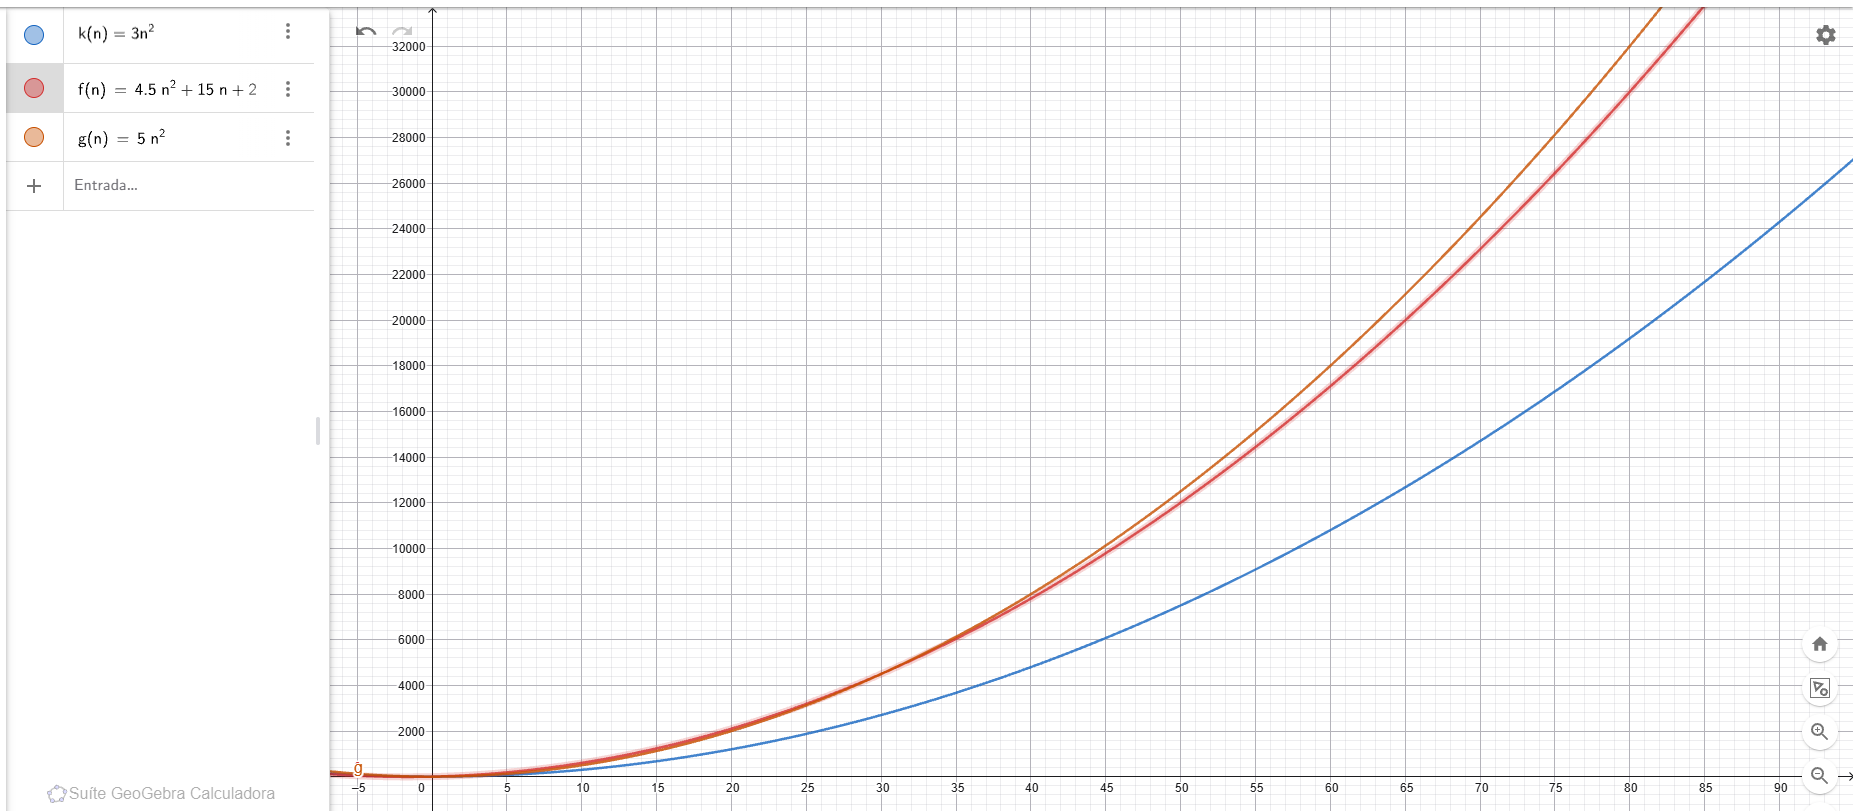
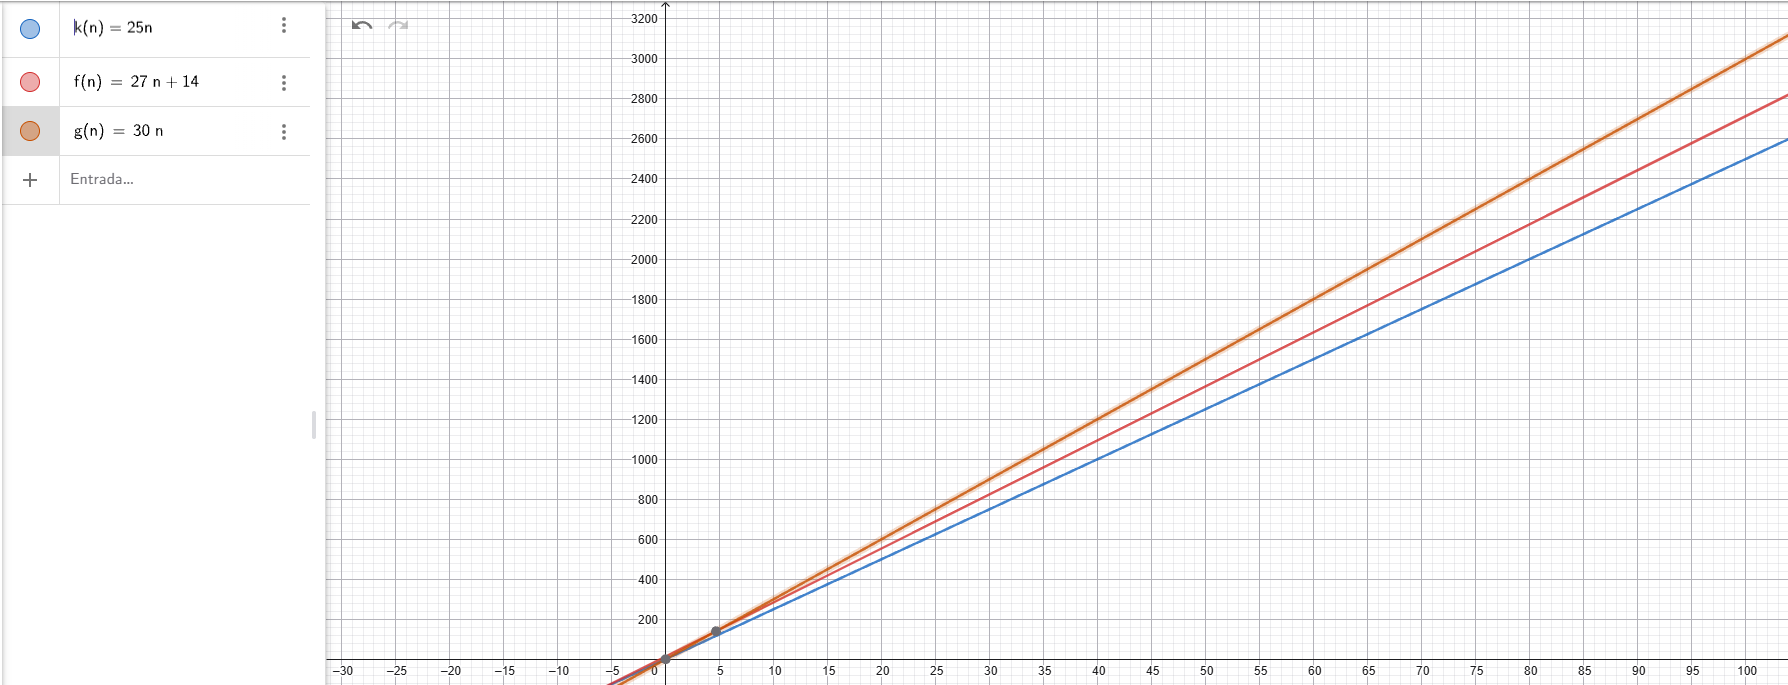
elaborar relatorio do readme

Changed region(s): [[0.0, 0.0, 1.0, 1.0]]

diff --git a/README.md b/README.md
@@ -52,3 +52,41 @@ Tabela Padrão
 | 6 | 30.000 |
 | 7 | 50.000 |
 | 8 | 10.000.000 |
+
+## Relatório
+
+### Comparação dos resultados
+
+Os tempos apresentados correspondem à **mediana de cinco execuções** por versão.
+
+| Versão | n = q | Mediana (s) | Comparação com a v0 |
+|:---:|---:|---:|---|
+| v0 | 10.433 | 8,785270 | Referência |
+| v1 | 10.433 | 7,708809 | 12,25% menos tempo |
+| v2 | 10.433 | 6,172683 | 29,74% menos tempo |
+| v3 | 10.433 | 5,909541 | 32,73% menos tempo |
+| v4 (linear) | 10.000.000 | 2,265766 | Não comparável diretamente: entrada diferente |
+| v5 (linear) | 10.000.000 | 1,971931 | Não comparável diretamente: entrada diferente |
+| v6 | 10.000.000 | 1,557391 | Não comparável diretamente: entrada diferente |
+
+Nos testes com `n = q = 10.433`, as versões v0, v1, v2 e v3 produziram a mesma soma registrada: **15.301**. No cenário 8, com `n = q = 10.000.000`, as versões lineares v4, v5 e v6 também coincidiram, retornando **-269.416**.
+
+**Justificativa dos cenários:** as versões v4, v5 e v6 foram avaliadas no cenário 8 porque, para valores menores de `n`, seus tempos muito curtos dificultam distinguir os ganhos com precisão. Em contrapartida, a v0 torna-se muito lenta em entradas grandes devido à sua complexidade quadrática. Por isso, foram usados tamanhos diferentes para manter os experimentos viáveis. Essa escolha impede calcular diretamente o ganho de tempo da v6 em relação à v0 a partir das medições apresentadas.
+
+### Refatorações que mais renderam
+
+Entre v0 e v3, as melhorias eliminaram verificações e acessos desnecessários, mas mantiveram a complexidade **Θ(n²)**, considerando `n = q`. A v1 reduziu o tempo em **12,25%**, a v2 em **29,74%** e a v3 em **32,73%**, sempre em relação à v0. A passagem de v1 para v2 foi particularmente relevante, pois reduziu o tempo em **19,93%**.
+
+A principal melhoria **algorítmica** ocorreu na v4 linear, com a introdução das **somas prefixadas**. Essa estratégia substituiu o processamento repetido de cada intervalo por um pré-processamento do vetor e consultas de custo constante, reduzindo a complexidade total de **Θ(n²)** para **Θ(n)** quando `n = q` (ou, mais geralmente, de Θ(n·q) para Θ(n + q)).
+
+Nas versões lineares, as refatorações seguintes removeram vetores e laços auxiliares. No cenário 8, a v5 reduziu o tempo em **12,97%** em relação à v4, enquanto a v6 foi **31,26%** mais rápida que a v4 e **21,02%** mais rápida que a v5, considerando a redução percentual do tempo de execução.
+
+### Diferenças entre teoria e medição
+
+A análise das operações primitivas prevê uma redução do trabalho a cada refatoração. As medições acompanharam essa tendência dentro de cada grupo testado com o mesmo `n`, mas **a redução percentual de primitivas não precisa coincidir com a redução percentual de tempo**. O desempenho real também depende do interpretador Python, do acesso à memória, do cache e da carga do sistema durante a execução.
+
+Além disso, como as versões v0–v3 e v4–v6 foram medidas com entradas de tamanhos diferentes, **não é possível comparar diretamente seus tempos absolutos** nem afirmar um fator de aceleração medido da v6 sobre a v0. Para obter esse fator, seria necessário executar ambas com um mesmo tamanho de entrada viável e dividir a mediana da v0 pela mediana da v6.
+
+### Conclusão
+
+Os testes mostram melhorias progressivas: entre as versões quadráticas, a v3 apresentou o menor tempo, com **32,73% de redução em relação à v0**; entre as versões lineares, a v6 foi a mais rápida, com **31,26% de redução em relação à v4 linear**. A maior mudança teórica ocorreu na v4 linear, que reduziu a ordem de crescimento do algoritmo de **Θ(n²) para Θ(n)**, mantendo `n = q`. Os resultados ilustram tanto o benefício de eliminar operações desnecessárias quanto a vantagem de adotar uma estratégia algorítmica mais eficiente.

diff --git a/docs/tabelas/tabela_v4.md b/docs/tabelas/tabela_v4.md
@@ -1,10 +1,10 @@
-|       n |             3n² | 4,5n² + 15n + 2 |             5n² |
-| ------: | --------------: | ---------------: | --------------: |
-|   1.000 |      3.000.000 |        4.515.002 |      5.000.000 |
-|   2.000 |     12.000.000 |       18.030.002 |     20.000.000 |
-|   5.000 |     75.000.000 |      112.575.002 |    125.000.000 |
-|  10.000 |    300.000.000 |      450.150.002 |    500.000.000 |
-|  20.000 |  1.200.000.000 |    1.800.300.002 |  2.000.000.000 |
-|  30.000 |  2.700.000.000 |    4.050.450.002 |  4.500.000.000 |
-|  50.000 |  7.500.000.000 |   11.250.750.002 | 12.500.000.000 |
-| 100.000 | 30.000.000.000 |   45.001.500.002 | 50.000.000.000 |
+|       n |        25n |    27n + 14 |        30n |
+| ------: | ---------: | ----------: | ---------: |
+|   1.000 |     25.000 |      27.014 |     30.000 |
+|   2.000 |     50.000 |      54.014 |     60.000 |
+|   5.000 |    125.000 |     135.014 |    150.000 |
+|  10.000 |    250.000 |     270.014 |    300.000 |
+|  20.000 |    500.000 |     540.014 |    600.000 |
+|  30.000 |    750.000 |     810.014 |    900.000 |
+|  50.000 |  1.250.000 |   1.350.014 |  1.500.000 |
+| 100.000 |  2.500.000 |   2.700.014 |  3.000.000 |
